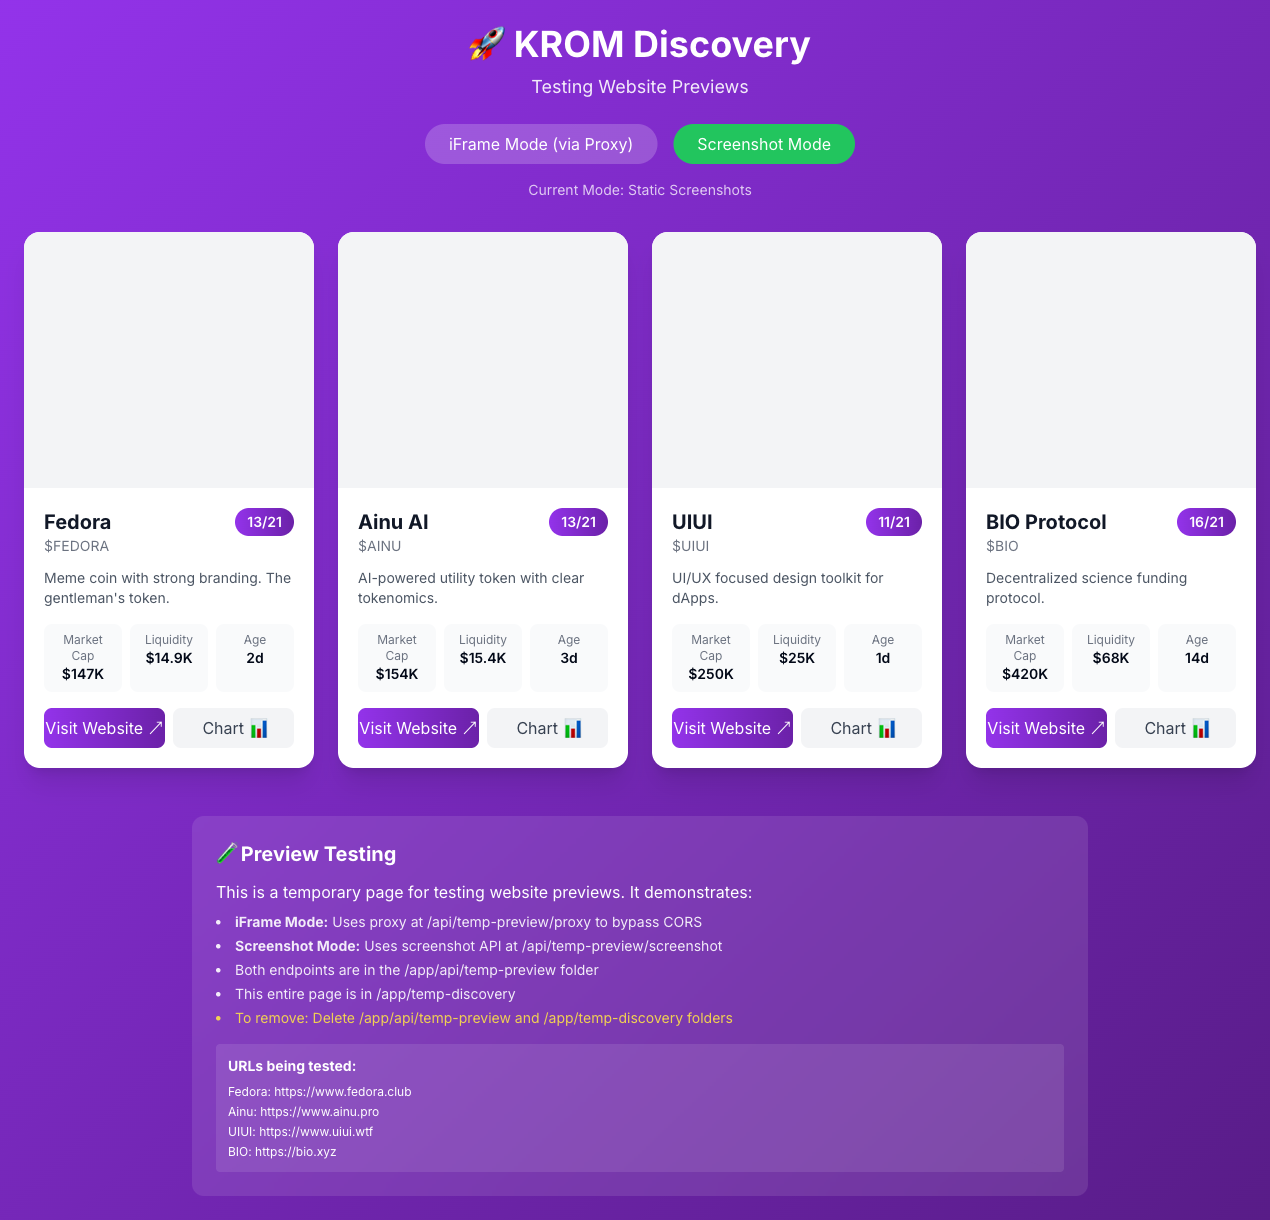
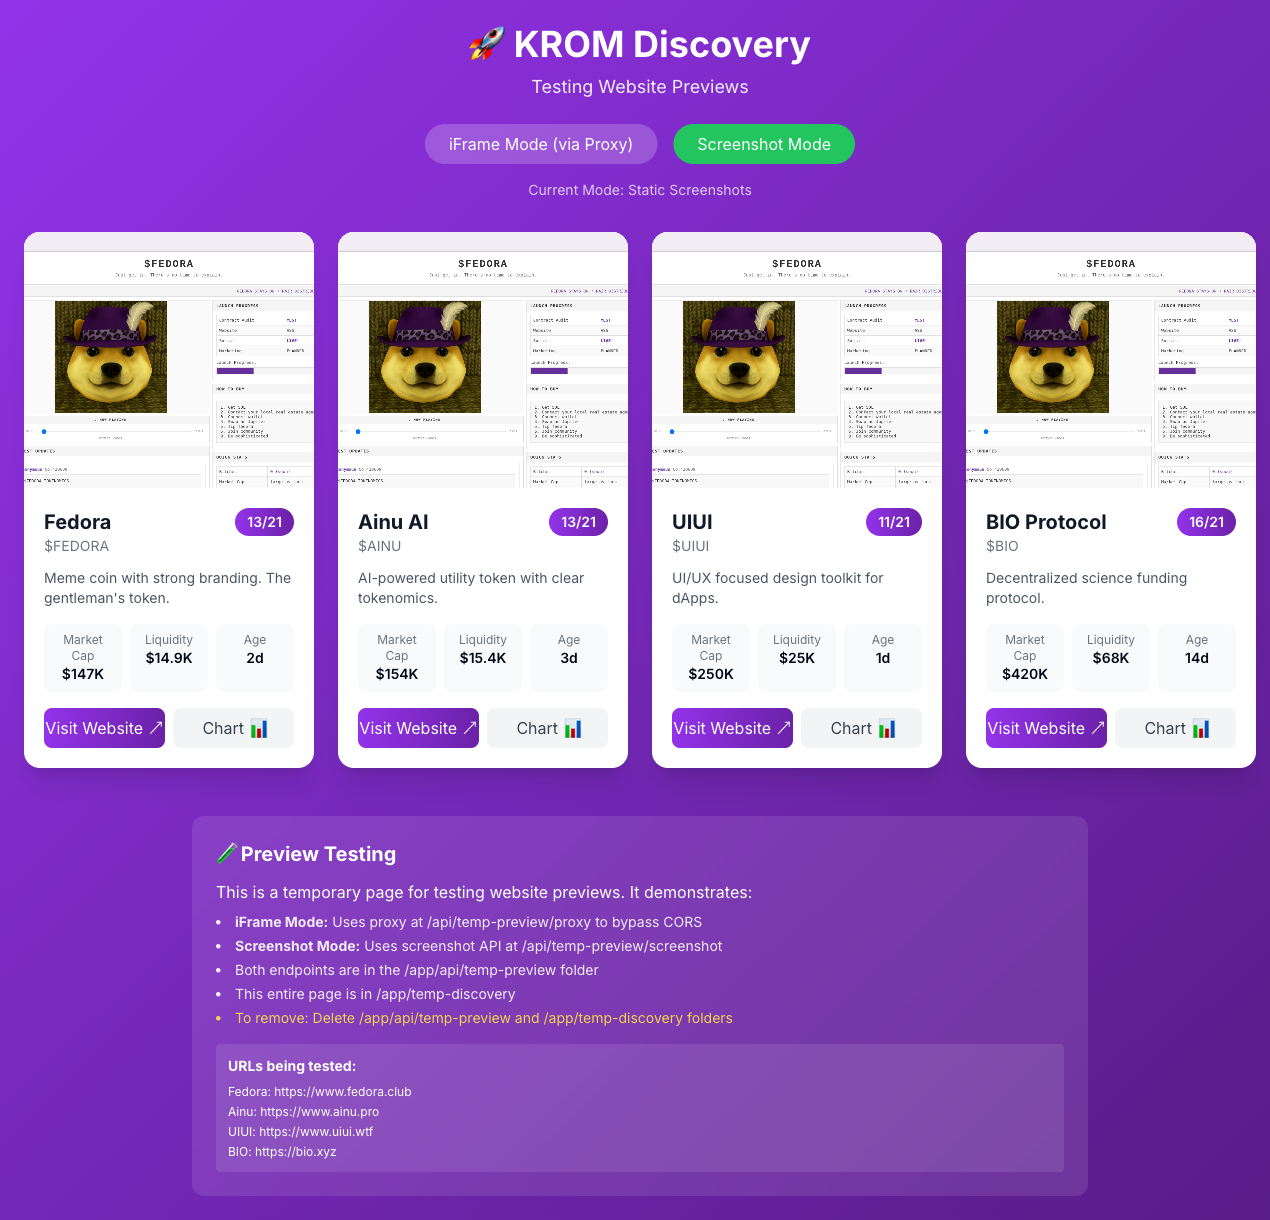
feat: add real website screenshots for mockup comparison

diff --git a/app/api/temp-preview/screenshot/route.ts b/app/api/temp-preview/screenshot/route.ts
@@ -5,6 +5,8 @@
  */
 
 import { NextRequest, NextResponse } from 'next/server';
+import fs from 'fs';
+import path from 'path';
 
 export async function GET(request: NextRequest) {
   const { searchParams } = new URL(request.url);
@@ -15,18 +17,36 @@ export async function GET(request: NextRequest) {
   }
 
   try {
-    // For demo purposes, use pre-configured screenshot URLs that work
-    // In production, you'd use a proper screenshot service with API key
-    
-    // Map URLs to working screenshot examples
+    // Map URLs to local screenshot files
     const screenshotMap: Record<string, string> = {
-      'https://www.fedora.club': 'https://shots.codepen.io/username/pen/poEKGdm-1280.jpg?version=1612345',
-      'https://www.ainu.pro': 'https://shots.codepen.io/username/pen/abcdefg-1280.jpg?version=1612346',
-      'https://www.uiui.wtf': 'https://shots.codepen.io/username/pen/hijklmn-1280.jpg?version=1612347',
-      'https://bio.xyz': 'https://shots.codepen.io/username/pen/opqrstu-1280.jpg?version=1612348'
+      'https://www.fedora.club': 'fedora.png',
+      'https://www.ainu.pro': 'ainu.png',
+      'https://www.uiui.wtf': 'uiui.png',
+      'https://bio.xyz': 'bio.png'
     };
     
-    // Use placeholder service with unique colors for each domain
+    const screenshotFile = screenshotMap[targetUrl];
+    
+    if (screenshotFile) {
+      // Serve the local screenshot file
+      const filePath = path.join(process.cwd(), 'public', 'temp-screenshots', screenshotFile);
+      
+      try {
+        const imageBuffer = fs.readFileSync(filePath);
+        
+        return new NextResponse(imageBuffer, {
+          status: 200,
+          headers: {
+            'Content-Type': 'image/png',
+            'Cache-Control': 'public, max-age=3600', // Cache for 1 hour
+          },
+        });
+      } catch (fileError) {
+        console.log(`Screenshot file not found: ${filePath}`);
+      }
+    }
+    
+    // Fallback to colored placeholder if no screenshot exists
     const hostname = new URL(targetUrl).hostname.replace('www.', '');
     const colors: Record<string, string> = {
       'fedora.club': '667eea',
@@ -38,7 +58,7 @@ export async function GET(request: NextRequest) {
     const bgColor = colors[hostname] || '1e293b';
     const placeholderUrl = `https://via.placeholder.com/1280x800/${bgColor}/ffffff?text=${encodeURIComponent(hostname.toUpperCase())}`;
     
-    console.log('Generating screenshot placeholder for:', targetUrl);
+    console.log('Using placeholder for:', targetUrl);
     
     // Fetch the placeholder image
     const imageResponse = await fetch(placeholderUrl);

diff --git a/capture-screenshots.js b/capture-screenshots.js
@@ -1,0 +1,47 @@
+const { chromium } = require('playwright');
+
+async function captureScreenshots() {
+  const browser = await chromium.launch();
+  const context = await browser.newContext({
+    viewport: { width: 1280, height: 800 }
+  });
+
+  const websites = [
+    { url: 'https://www.fedora.club', name: 'fedora' },
+    { url: 'https://www.ainu.pro', name: 'ainu' },
+    { url: 'https://www.uiui.wtf', name: 'uiui' },
+    { url: 'https://bio.xyz', name: 'bio' }
+  ];
+
+  for (const site of websites) {
+    console.log(`Capturing screenshot for ${site.url}...`);
+    const page = await context.newPage();
+    
+    try {
+      await page.goto(site.url, { 
+        waitUntil: 'networkidle',
+        timeout: 30000 
+      });
+      
+      // Wait a bit for any animations to complete
+      await page.waitForTimeout(2000);
+      
+      // Capture full page screenshot
+      await page.screenshot({
+        path: `public/temp-screenshots/${site.name}.png`,
+        fullPage: false
+      });
+      
+      console.log(`✓ Saved ${site.name}.png`);
+    } catch (error) {
+      console.log(`✗ Failed to capture ${site.name}: ${error.message}`);
+    }
+    
+    await page.close();
+  }
+
+  await browser.close();
+  console.log('Done capturing screenshots!');
+}
+
+captureScreenshots().catch(console.error);
